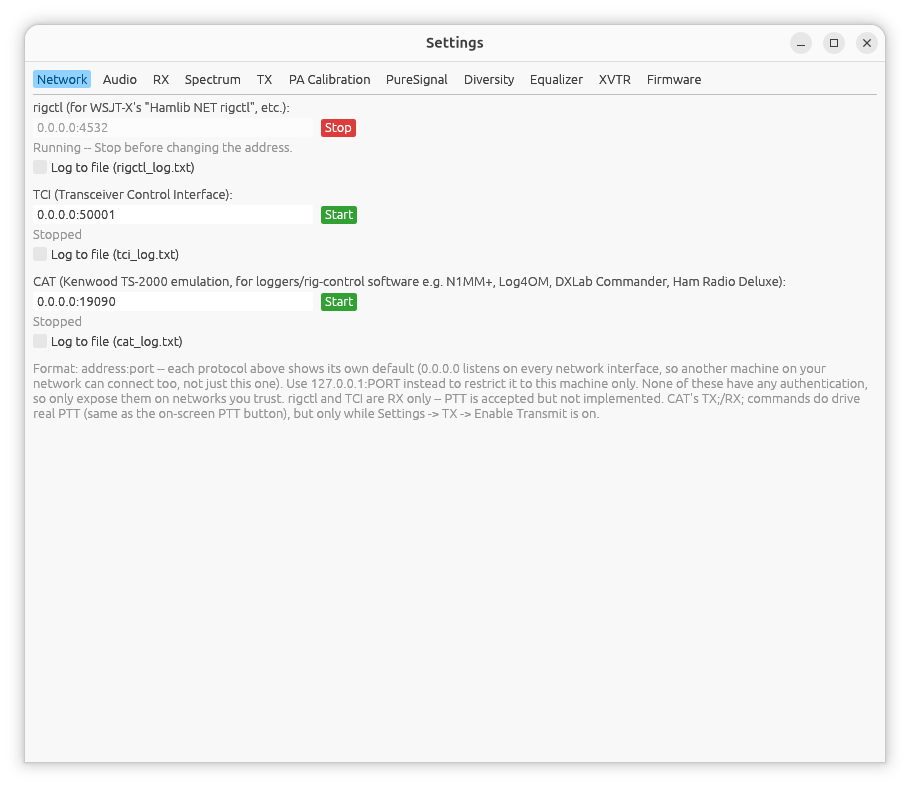
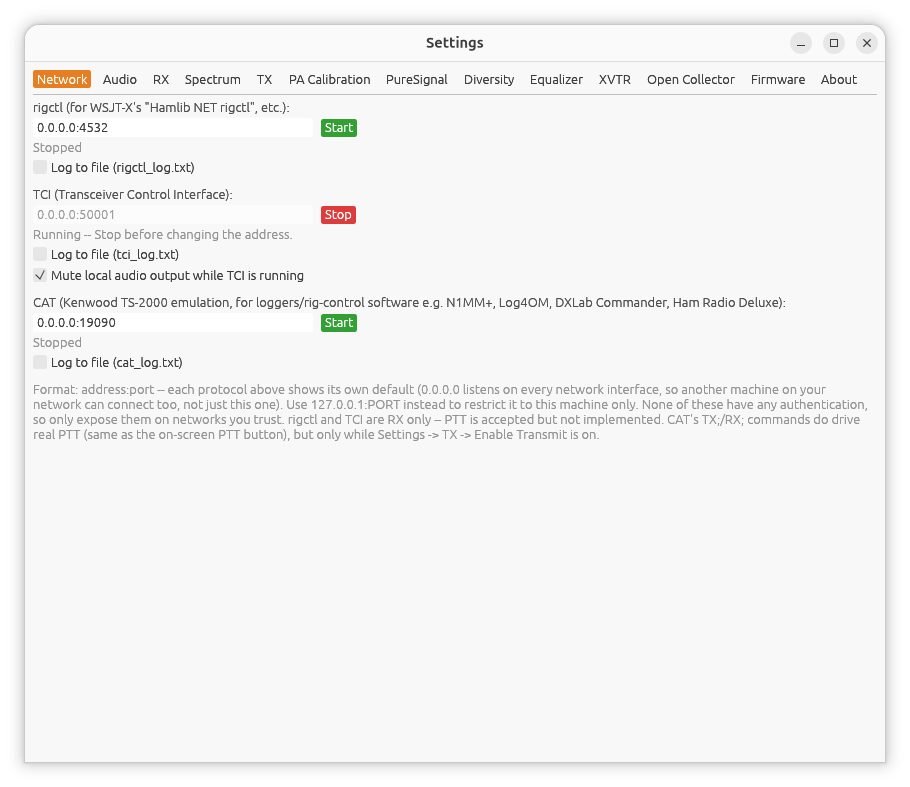
Update manual for OneShot/Auto Attenuate/TCI mute/double-click start
Documents this session's UI additions: PureSignal's OneShot checkbox,
State readout, Curve fit status diagnostic, and Auto Attenuate (Two
Tone); Settings -> Network's "Mute local audio output while TCI is
running"; and double-click-to-start in the Discovery window.
Screenshots for the PureSignal and Network tabs updated to match.

Claude-Session: https://claude.ai/code/session_017NPS3Sv69QsMmPJLogBKeC

diff --git a/docs/manual/09-puresignal.md b/docs/manual/09-puresignal.md
@@ -22,7 +22,14 @@ maximum count is 2 lower than the radio's full capacity on any such radio.
 Once enabled (and TX armed), the rest of this tab's controls appear:
 
 - **Running (continuous auto-calibrate)** checkbox.
-- **Calibrate Now** -- runs one manual calibration pass immediately.
+- **OneShot** -- applies the last good correction table instead of
+  continuing to relearn. Calibrate with Two Tone (envelope-rich) first,
+  then enable OneShot before running constant-envelope digital modes
+  (FT8 etc.) -- their TX envelope can't sweep the full amplitude range a
+  correction table needs to keep relearning from, so Running above will
+  never settle on that traffic.
+- **Calibrate Now** -- runs one manual calibration pass on top of Running
+  above, e.g. after changing drive or band.
 - **Feedback level** -- a colored readout of the feedback receiver's signal
   strength: red below 90 (too weak), yellow 90-127, green 128-181 (ideal),
   blue 182-256, red above 256 (too strong). Despite the "ideal" range, this
@@ -30,6 +37,19 @@ Once enabled (and TX armed), the rest of this tab's controls appear:
   confirmed working well outside it, as long as HW Peak (below) is right.
 - **Correcting** -- yes/no, turns green once PureSignal is actively
   applying correction.
+- **State** -- WDSP's own live calibration-state-machine value, shown as
+  text (`RESET`, `WAIT`, `MOXDELAY`, `SETUP`, `COLLECT`, `MOXCHECK`,
+  `CALC`, `DELAY`, `STAYON`, `TURNON`), matching piHPSDR/deskHPSDR's own
+  PureSignal dialog. With Running enabled and MOX held, watching this
+  cycle through `SETUP`/`COLLECT`/`CALC` on its own (without needing to
+  press Calibrate Now) confirms continuous auto-calibrate is genuinely
+  retrying rather than stuck.
+- **Curve fit status** -- only shown while not Correcting and something's
+  nonzero. Five hex codes (rx-scale/magnitude/cos-phase/sin-phase/solution
+  check) identifying which stage of the correction-table fit failed. A
+  nonzero code often reflects a real limit of the feedback signal itself
+  (e.g. too little SNR at low drive for the calibration signal in use)
+  rather than a bug -- try adjusting attenuation or drive first.
 - **Measured peak TX** -- the actual envelope peak PureSignal is currently
   measuring.
 - **Feedback Attenuation** (non-HermesLite boards) -- 0-31 dB, adjust to
@@ -37,6 +57,10 @@ Once enabled (and TX armed), the rest of this tab's controls appear:
   [Settings: TX](07-settings-tx.md)'s **TX ADC0 Attenuation** -- it isn't
   PureSignal-specific, it protects ADC0 from this radio's own TX leakage
   generally, PureSignal or not.
+- **Auto Attenuate (Two Tone)** (non-HermesLite boards) -- periodically
+  nudges Feedback Attenuation toward a feedback level of ~152, then
+  re-calibrates, so you don't have to tune it by hand. Needs Two Tone (or
+  other PS-driving TX audio) and MOX active to have anything to act on.
 - **HW Peak** -- 0.0-1.0. See below; this is the setting that actually
   matters most.
 - **MOX Delay**, **Loop Delay**, **TX Delay** -- advanced timing

diff --git a/docs/manual/03-settings-network.md b/docs/manual/03-settings-network.md
@@ -58,6 +58,15 @@ streaming), both directly and through TCI Remote Compactor.
   actually use).
 - Same **Start**/**Stop**/status/logging behavior as rigctl above (logs to
   `tci_log.txt`).
+- **Mute local audio output while TCI is running** -- hpsdr-rs normally
+  streams RX audio to both its own local audio device and TCI at the same
+  time. If that local device is *also* independently picked up by your TCI
+  client (e.g. a virtual audio cable left over from before TCI was set
+  up), the client receives the same audio twice -- once via TCI, once via
+  the device -- which shows up as a doubled/offset waterfall segment and
+  fuzzy-sounding decodes. Enable this to mute only the local device output
+  while TCI is actually running; TCI clients keep receiving audio
+  normally either way.
 
 ### TCI Remote
 

diff --git a/docs/manual/01-getting-started.md b/docs/manual/01-getting-started.md
@@ -37,10 +37,12 @@ columns:
 Click anywhere on a row to select it -- the whole row highlights. Only
 **Available** radios can be selected and started; a radio already **In Use**
 (by another client, or another instance of this app) is shown but disabled.
+Double-clicking an **Available** row starts it immediately, same as
+selecting it and pressing **Start**.
 
 The first **Available** radio in the list is selected automatically as
 soon as results land (skipping over any radio already **In Use**), so you
-can usually just click **Start**.
+can usually just click **Start** -- or double-click that row.
 
 **Rediscover** clears the current list and scans again -- useful if your
 radio was slow to respond or you just powered it on.
